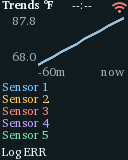
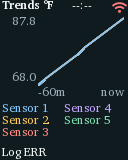
feat(lcd): Trends legend in two balanced columns (first half left, rest right); taller chart

diff --git a/firmware/components/display_service/display_view.cpp b/firmware/components/display_service/display_view.cpp
@@ -58,6 +58,7 @@ uint32_t color(State state) {
 }
 // One colour per probe position (the Trends legend names them): sky blue, amber, coral, lilac,
 // mint. They stay distinct on the dark background and are not the alert colours.
+constexpr int legend_top = 103, legend_row = 12; // compact Trends legend: first row, row pitch
 constexpr uint32_t line_colors[max_sensors] = {0x7fc8ff, 0xffc857, 0xff8a80, 0xc3a6ff, 0x7fe0b0};
 } // namespace
 DisplayView::DisplayView() {
@@ -115,7 +116,7 @@ DisplayView::DisplayView() {
                 } else {
                     chart = lv_chart_create(s->root);
                     lv_obj_set_pos(chart, large_trend ? 38 : 12, large_trend ? 16 : top + 21);
-                    lv_obj_set_size(chart, large_trend ? 86 : 141, large_trend ? 50 : 23);
+                    lv_obj_set_size(chart, large_trend ? 86 : 141, large_trend ? 70 : 23);
                     lv_obj_set_style_bg_opa(chart, LV_OPA_TRANSP, 0);
                     lv_obj_set_style_border_width(chart, 0, 0);
                     lv_obj_set_style_pad_all(chart, 0, 0);
@@ -131,14 +132,14 @@ DisplayView::DisplayView() {
                     chart, lv_color_hex(large_trend ? line_colors[i] : 0x9be3c4),
                     LV_CHART_AXIS_PRIMARY_Y);
                 if (large_trend) {
-                    // The legend: probe names in their line colours, one column under the chart.
-                    s->legend[i] =
-                        label(s->root, 2, 82 + 12 * int(i), 124, &font_charter_regular_12);
+                    // The legend: probe names in their line colours, in two balanced columns
+                    // under the chart (positioned in render() from the number of probes).
+                    s->legend[i] = label(s->root, 2, legend_top, 62, &font_charter_regular_12);
                     lv_label_set_long_mode(s->legend[i], LV_LABEL_LONG_CLIP);
                     lv_obj_set_style_text_color(s->legend[i], lv_color_hex(line_colors[i]), 0);
                     if (i == 0) {
                         for (auto *axis : {&s->axis_max[0], &s->axis_min[0]}) {
-                            *axis = label(s->root, 0, axis == &s->axis_max[0] ? 16 : 52, 36,
+                            *axis = label(s->root, 0, axis == &s->axis_max[0] ? 16 : 72, 36,
                                           &font_charter_regular_12);
                             lv_obj_set_style_text_align(*axis, LV_TEXT_ALIGN_RIGHT, 0);
                             lv_obj_set_style_text_color(*axis, lv_color_hex(setup_muted), 0);
@@ -147,16 +148,16 @@ DisplayView::DisplayView() {
                 }
                 if (!large_trend || i == 0) {
                     s->no_data[i] =
-                        label(s->root, large_trend ? 4 : 12, large_trend ? 36 : top + 24,
+                        label(s->root, large_trend ? 4 : 12, large_trend ? 48 : top + 24,
                               large_trend ? 120 : 141, &font_charter_regular_12);
                     text(s->no_data[i], "NO DATA");
                 }
             }
         }
         if (compact && s == &trends_) {
-            s->axis_from = label(s->root, 38, 67, 43, &font_charter_regular_12);
-            s->axis_now = label(s->root, 81, 67, 43, &font_charter_regular_12);
-            // Five legend rows end at y=142, so the Trends footer sits below them.
+            s->axis_from = label(s->root, 38, 87, 43, &font_charter_regular_12);
+            s->axis_now = label(s->root, 81, 87, 43, &font_charter_regular_12);
+            // At most three legend rows end at y=139, so the Trends footer sits below them.
             lv_obj_set_y(s->footer, 147);
             lv_obj_set_height(s->footer, 13);
             lv_obj_set_style_text_align(s->axis_now, LV_TEXT_ALIGN_RIGHT, 0);
@@ -317,6 +318,19 @@ void DisplayView::render(const Registry &registry, const TrendCache &cache,
             lv_obj_set_hidden(trends_.labels[i], true);
             lv_obj_set_hidden(trends_.values[i], true);
             lv_obj_set_hidden(trends_.states[i], true);
+        }
+        // Balanced columns: the first half (rounded up) on the left, the rest on the right.
+        size_t listed = 0;
+        for (const auto &row : rows)
+            listed += row.rom != 0;
+        if (listed != legend_count_) {
+            legend_count_ = listed;
+            const size_t left = (listed + 1) / 2;
+            for (size_t i = 0; i < max_sensors; ++i) {
+                const bool is_left = i < left;
+                lv_obj_set_pos(trends_.legend[i], is_left ? 2 : 64,
+                               legend_top + legend_row * int(is_left ? i : i - left));
+            }
         }
         const bool any = low != INT32_MAX;
         if (any && (low != trend_low_ || high != trend_high_)) {

diff --git a/firmware/display_tests/display_tests.cpp b/firmware/display_tests/display_tests.cpp
@@ -402,17 +402,21 @@ int main(int argc, char **argv) {
         for (unsigned i = 0; i < max_sensors; ++i)
             CHECK(lv_obj_is_hidden(view.trends_label(i))); // no per-probe header any more
         {
-            // The legend is one column (every entry at the same x, one below the other) and ends
+            // Five probes: three names on the left, two on the right, all below the chart and
             // above the footer.
             lv_obj_update_layout(lv_screen_active());
-            for (unsigned i = 0; i < max_sensors; ++i) {
+            for (unsigned i = 0; i < 3; ++i)
                 CHECK(lv_obj_get_x(view.trends_legend(i)) == lv_obj_get_x(view.trends_legend(0)));
-                if (i)
-                    CHECK(lv_obj_get_y(view.trends_legend(i)) >
-                          lv_obj_get_y(view.trends_legend(i - 1)));
-            }
-            CHECK(lv_obj_get_y(view.trends_legend(4)) + lv_obj_get_height(view.trends_legend(4)) <=
+            for (unsigned i = 3; i < 5; ++i)
+                CHECK(lv_obj_get_x(view.trends_legend(i)) == lv_obj_get_x(view.trends_legend(3)) &&
+                      lv_obj_get_x(view.trends_legend(3)) > lv_obj_get_x(view.trends_legend(0)));
+            CHECK(lv_obj_get_y(view.trends_legend(1)) > lv_obj_get_y(view.trends_legend(0)));
+            CHECK(lv_obj_get_y(view.trends_legend(3)) == lv_obj_get_y(view.trends_legend(0)));
+            CHECK(lv_obj_get_y(view.trends_legend(4)) == lv_obj_get_y(view.trends_legend(1)));
+            CHECK(lv_obj_get_y(view.trends_legend(2)) + lv_obj_get_height(view.trends_legend(2)) <=
                   lv_obj_get_y(view.footer_label()));
+            CHECK(lv_obj_get_y(view.trends_legend(0)) >=
+                  lv_obj_get_y(view.trends_chart(0)) + lv_obj_get_height(view.trends_chart(0)));
         }
         {
             // Repeated renders of unchanged data while Trends is shown must not repaint.
@@ -474,7 +478,7 @@ int main(int argc, char **argv) {
         }
         lv_obj_update_layout(lv_screen_active());
         auto *first_chart = view.trends_chart(0);
-        CHECK(lv_obj_get_width(first_chart) == 86 && lv_obj_get_height(first_chart) == 50);
+        CHECK(lv_obj_get_width(first_chart) == 86 && lv_obj_get_height(first_chart) == 70);
         {
             // Fonts by role: serif (Charter) for every piece of text on the Overview and Trends
             // screens; the Wi-Fi icon is a symbol and stays in Montserrat.
@@ -522,6 +526,28 @@ int main(int argc, char **argv) {
             lv_tick_inc(50);
             lv_refr_now(display);
             save("trends-compact-five-lines");
+            {
+                // The same balance for four probes (2 + 2), three (2 + 1) and one.
+                auto layout = [&](size_t count) {
+                    Registry some;
+                    some.sample(fake_readings(count), 4200000);
+                    view.render(some, histories, options, status, 4210000);
+                    lv_obj_update_layout(lv_screen_active());
+                    std::array<int, 5> column{}; // 0 = left, 1 = right, -1 = hidden
+                    for (size_t i = 0; i < 5; ++i)
+                        column[i] = lv_obj_is_hidden(view.trends_legend(i))
+                                        ? -1
+                                        : (lv_obj_get_x(view.trends_legend(i)) >
+                                                   lv_obj_get_x(view.trends_legend(0))
+                                               ? 1
+                                               : 0);
+                    return column;
+                };
+                CHECK((layout(4) == std::array<int, 5>{0, 0, 1, 1, -1}));
+                CHECK((layout(3) == std::array<int, 5>{0, 0, 1, -1, -1}));
+                CHECK((layout(1) == std::array<int, 5>{0, -1, -1, -1, -1}));
+                CHECK((layout(5) == std::array<int, 5>{0, 0, 0, 1, 1}));
+            }
             view.render(registry, cache, options, status, 3605000);
         }
         {

diff --git a/firmware/components/display_service/include/display_view.hpp b/firmware/components/display_service/include/display_view.hpp
@@ -77,6 +77,7 @@ class DisplayView {
     std::array<int32_t, max_sensors> chart_low_{}, chart_high_{};
     int32_t trend_low_ = INT32_MAX, trend_high_ = INT32_MIN;
     std::array<bool, max_sensors> series_hidden_{};
+    size_t legend_count_ = max_sensors + 1; // probes listed when the legend was last laid out
     int64_t cache_window_ = -1;
     std::array<uint64_t, max_sensors> chart_roms_{};
     std::array<bool, max_sensors> chart_data_{};

diff --git a/docs/USER_GUIDE.md b/docs/USER_GUIDE.md
@@ -75,7 +75,7 @@ and alarms are edited on the Sensors page.
 On the compact 1.8-inch LCD, Trends draws every probe as a line of its own colour on one graph
 with a shared scale: the highest and lowest value are printed at the left, the time span
 (`-60m` to `now`, following the lookback setting) under it, and the unit in the title. Under the
-graph a legend, one name per line in its line's colour (sky blue, amber, coral, lilac, mint, in probe order),. A probe with
+graph a legend in two balanced columns, each name in its line's colour (sky blue, amber, coral, lilac, mint, in probe order; the first half of the probes on the left, the rest on the right),. A probe with
 no history yet is still listed in its colour but has no line. With only the Overview and Trends screens, nothing
 rotates any more.
 
